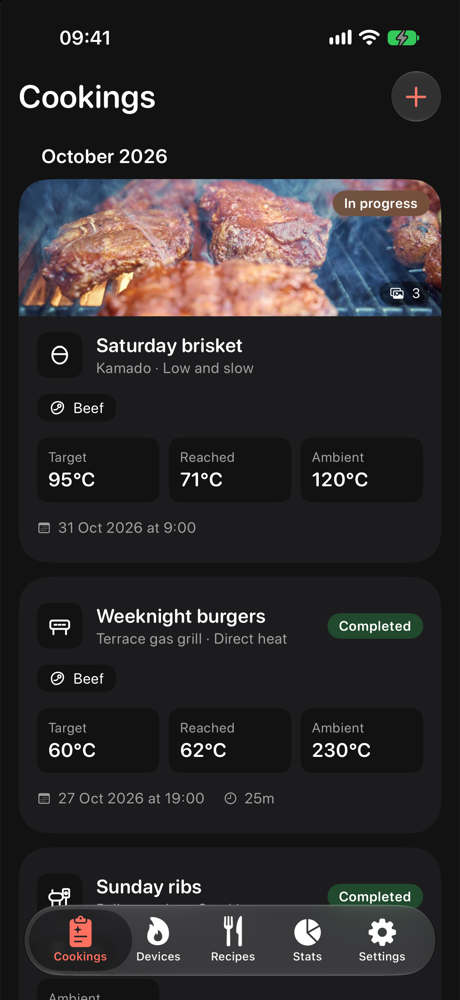
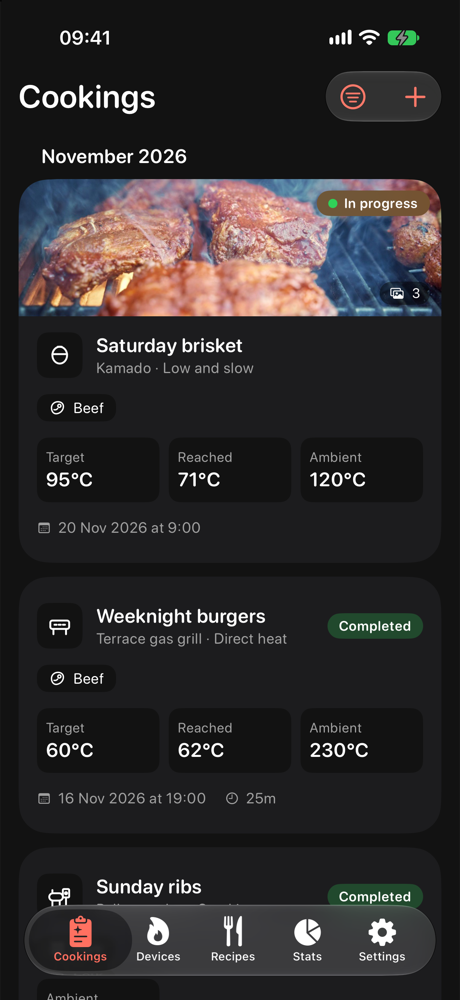
docs: refresh the showcase for 1.3.0 (#13)
* docs: refresh the showcase for 1.3.0

* docs: re-capture the cookings and recipes screenshots for 1.3.0

---------

diff --git a/README.md b/README.md
@@ -134,8 +134,10 @@ Log every session and follow it from **planned** to **completed**.
 
 - Title, barbecue, **status** (planned, in progress, completed), proteins and technique
 - Start and end time, **target, reached and ambient temperatures**, notes
-- Up to **3 photos** per cook, from the camera or the photo library
-- A list **grouped by month**, with photo banners and **swipe to complete**
+- Up to **3 photos** per cook, from the camera or the photo library, with the **cover photo** of your choice
+- Rate a cook from **1 to 5 stars**, in any status
+- A list **grouped by month**, with photo banners, a status badge, **swipe to complete** and a **filter by protein**
+- Turning on the end date marks a cook as completed automatically
 
 ### 🔥 Devices
 All your grills, smokers, kamados and planchas in one place.
@@ -159,8 +161,10 @@ Save the recipes you want to make again.
 </p>
 
 - Name, summary, technique, **prep and cook time**, servings and **target core temperature**
-- **Ingredients** with quantity and unit, **ordered steps**, notes and up to 3 photos
+- **Ingredients** with quantity and unit, **ordered steps**, notes and up to 3 photos, with the **cover photo** of your choice
 - A swipeable full-width **photo gallery** in the detail
+- **Search** the list by name and summary, newest recipes first
+- **Share** a recipe as text or as an **A4 PDF** with the cover photo, ingredients and numbered steps, through the system share sheet
 
 ### 📊 Stats
 See how you cook, with **Swift Charts**.
@@ -335,12 +339,12 @@ Each package ships its **own string catalog** in English and Italian. A **custom
 <!-- showcase:quality:start -->
 ## ✅ Quality
 
-- **Tests**: more than **400 Swift Testing tests** across the app, core, UI and feature packages, including the reminder schedule across daylight saving and region calendars, overlapping reschedules, quick-action building, the widget snapshot, an export and import round trip, restoring iCloud sync after a reinstall, a check that the Core Data model stays CloudKit-compatible, a pin of the production CloudKit schema and decoding tests for legacy payloads.
+- **Tests**: nearly **500 Swift Testing tests** across the app, core, UI and feature packages, including the reminder schedule across daylight saving and region calendars, overlapping reschedules, quick-action building, the widget snapshot, an export and import round trip, restoring iCloud sync after a reinstall, a check that the Core Data model stays CloudKit-compatible, a pin of the production CloudKit schema and decoding tests for legacy payloads.
 - **UI tests**: black-box **Maestro** flows drive the real app on a simulator, starting from a clean install on the demo data, so every run is deterministic. They select views by **accessibility identifier**, defined in one place in the shared UI package, never by text, so they pass in English and Italian. One script builds the app, installs it and runs the flows with a JUnit report. See [UI tests with Maestro](#-ui-tests-with-maestro).
 - **Lint**: **SwiftLint runs before every build**, with rules such as no force unwrapping, implicit returns and closure length limits, plus custom project rules.
 - **Generated project**: the Xcode project and workspace are generated from a single **Tuist** manifest.
 - **Continuous integration**: **Xcode Cloud** builds and tests every push to `develop` with one test plan that covers the unit tests of the app, the shared packages and every feature, so a merged pull request is checked without a local run.
-- **Releases**: **fastlane** lanes run the tests, archive and upload builds to **TestFlight**, and push the App Store listing after checking every field against Apple's limits. The app ships a **privacy manifest**: no tracking, no data collected.
+- **Releases**: **fastlane** lanes run the tests, archive and upload builds to **TestFlight**, push the App Store listing after checking every field against Apple's limits, and send a build to review. The app ships a **privacy manifest**: no tracking, no data collected.
 - **Process**: **Conventional Commits**, **gitflow** with pull requests into `develop`, and a changelog following Keep a Changelog.
 
 ### 🎬 UI tests with Maestro
